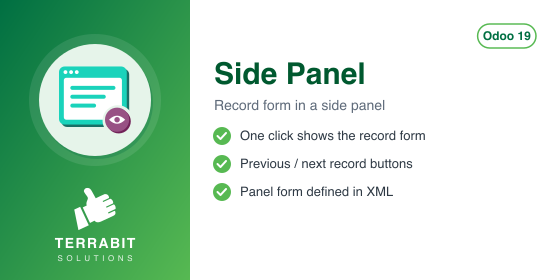
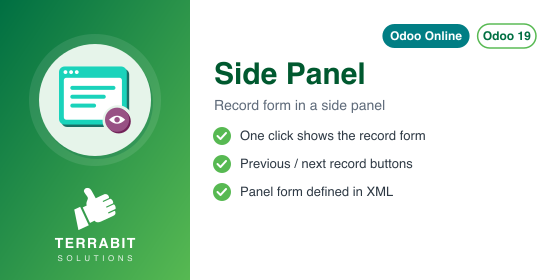
[IMP] deltatech_web_side_panel: data-only module, importable on Odoo Online
Odoo Apps treats any .py file as Python code, so the module page did not
show Odoo Online as available. The empty __init__.py and the Python test
runners are removed; the Hoot tests stay in static/tests and run with the
web unit tests.

The import of a module zip refuses glob wildcards in the asset paths, so
the manifest lists the asset files one by one. The banner gets the Odoo
Online pill and the module is excluded from oca-checks-odoo-module, like
the other data-only modules.

Assisted-by: Claude Opus 5.5

Changed region(s): [[0.6679, 0.0857, 0.85, 0.1714]]

diff --git a/deltatech_web_side_panel/__manifest__.py b/deltatech_web_side_panel/__manifest__.py
@@ -4,7 +4,7 @@
     "images": ["static/description/main_screenshot.png"],
     "name": "Side Panel",
     "summary": "A side panel with the details of the selected record, for kanban and list views",
-    "version": "19.0.1.2.0",
+    "version": "19.0.1.3.0",
     "author": "Terrabit, Dorin Hongu",
     "website": "https://www.terrabit.ro",
     "category": "Hidden/Tools",
@@ -14,10 +14,14 @@
     "demo": ["demo/demo_views.xml"],
     "assets": {
         "web.assets_backend": [
-            "deltatech_web_side_panel/static/src/side_panel/*",
+            "deltatech_web_side_panel/static/src/side_panel/side_panel.esm.js",
+            "deltatech_web_side_panel/static/src/side_panel/side_panel.scss",
+            "deltatech_web_side_panel/static/src/side_panel/side_panel.xml",
+            "deltatech_web_side_panel/static/src/side_panel/side_panel_controller.esm.js",
+            "deltatech_web_side_panel/static/src/side_panel/side_panel_views.esm.js",
         ],
         "web.assets_unit_tests": [
-            "deltatech_web_side_panel/static/tests/**/*",
+            "deltatech_web_side_panel/static/tests/side_panel.test.js",
         ],
     },
     "consultant_sheet": "full",

diff --git a/deltatech_web_side_panel/readme/HISTORY.md b/deltatech_web_side_panel/readme/HISTORY.md
@@ -1,3 +1,14 @@
+## 19.0.1.3.0 (2026-11-16)
+
+- Data-only module, available on Odoo Online: the empty `__init__.py` and the Python test runners
+  (`tests/test_js.py`, `tests/test_screenshots.py`) were removed. Odoo Apps treats any `.py` file
+  as Python code and showed the module as not available on Odoo Online. The module can now be
+  loaded on Odoo Online from **Apps > Import Module**. The JavaScript tests
+  (`static/tests/side_panel.test.js`) stay in the module and run with the web unit tests
+  (`/web/tests?filter=deltatech_web_side_panel`).
+- The asset paths in the manifest are listed file by file instead of with glob wildcards: the
+  import of a module zip refuses `*` and `**` in the asset paths.
+
 ## 19.0.1.2.0 (2026-11-13)
 
 - A double click on a card or on a row opens the full form of that record. A single click still

diff --git a/deltatech_web_side_panel/readme/DESCRIPTION.md b/deltatech_web_side_panel/readme/DESCRIPTION.md
@@ -13,3 +13,8 @@ the user selected, without leaving the screen.
   remembered in the browser.
 - **Small screens keep the usual views** — below the extra-large breakpoint the click opens the form
   as before.
+
+**Odoo Online** — the module contains no Python code, only JavaScript, a style sheet and XML
+templates. Besides Odoo.sh and on-premise installations, it can be used on Odoo Online (Custom
+plan): download the zip and load it from **Apps > Import Module**. The panel shows up in the views
+that use `side_panel_kanban` or `side_panel_list`.
